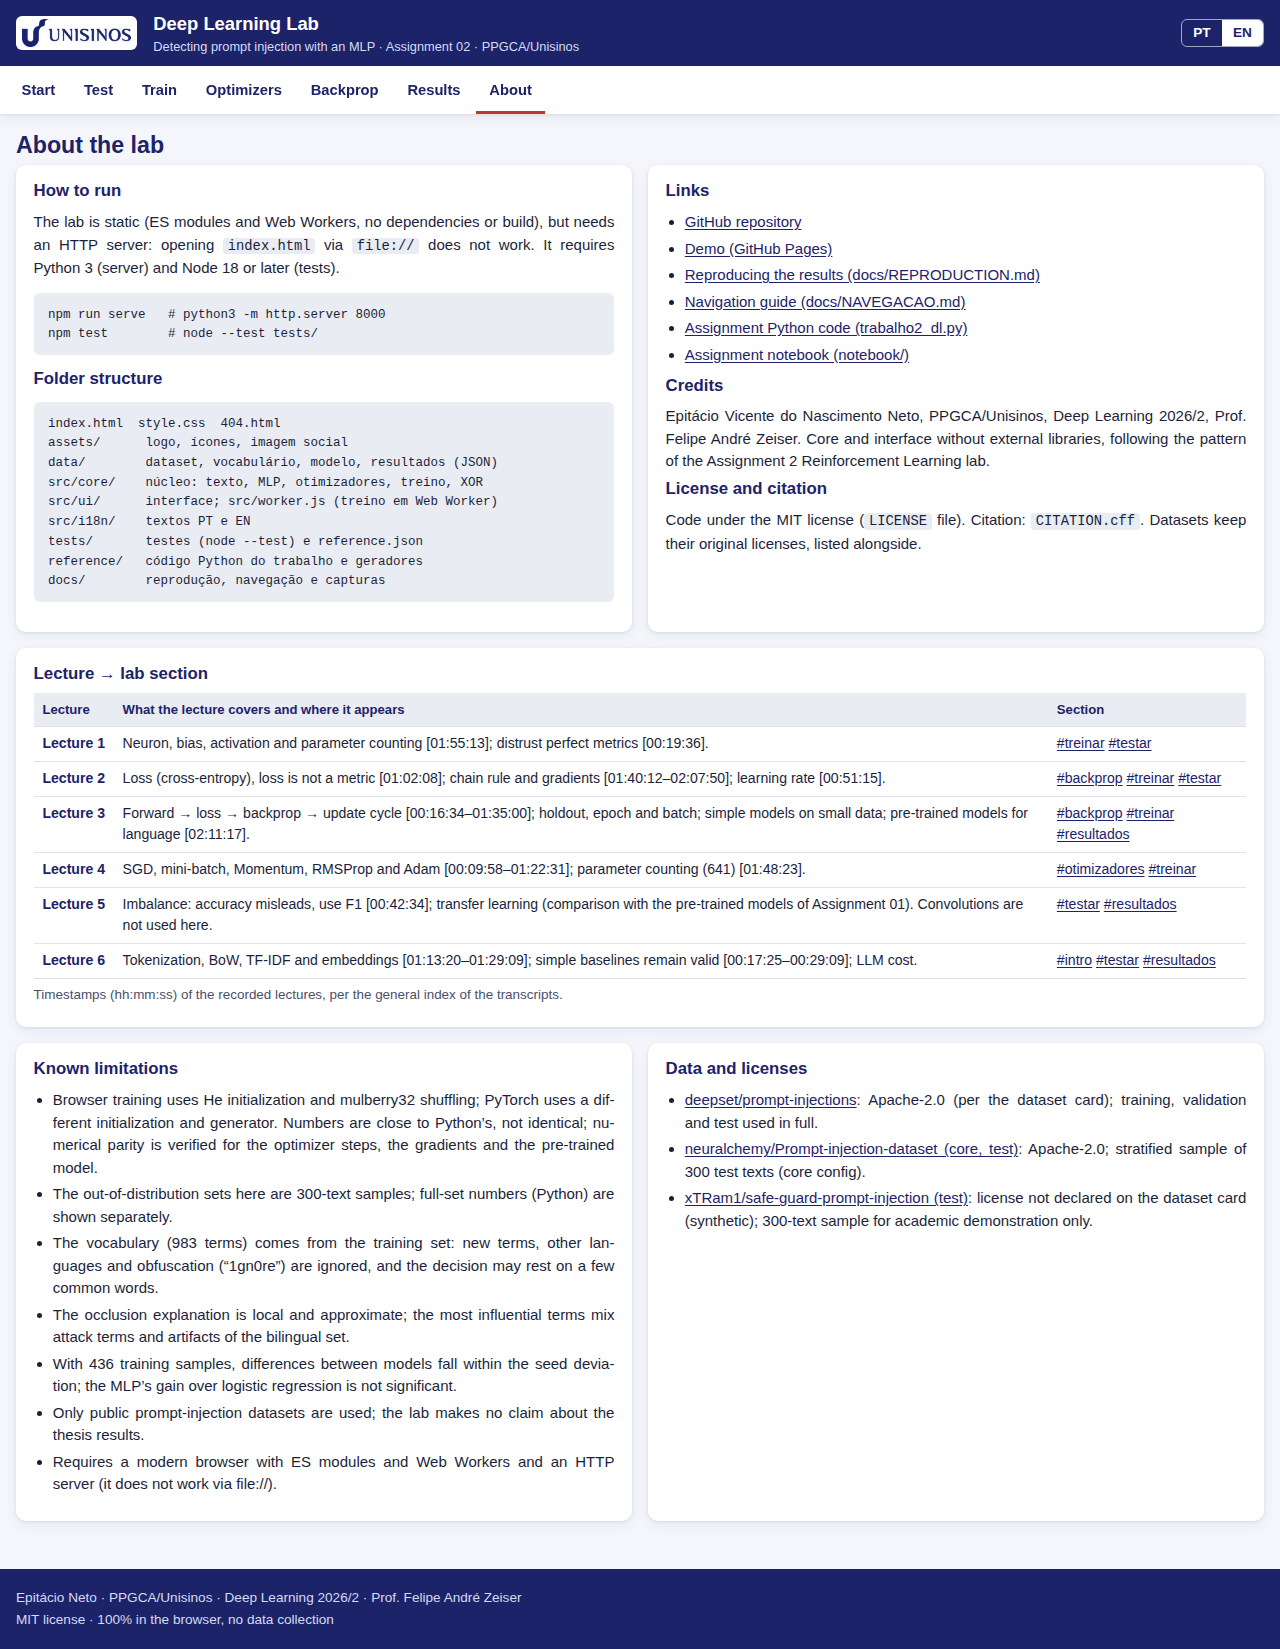
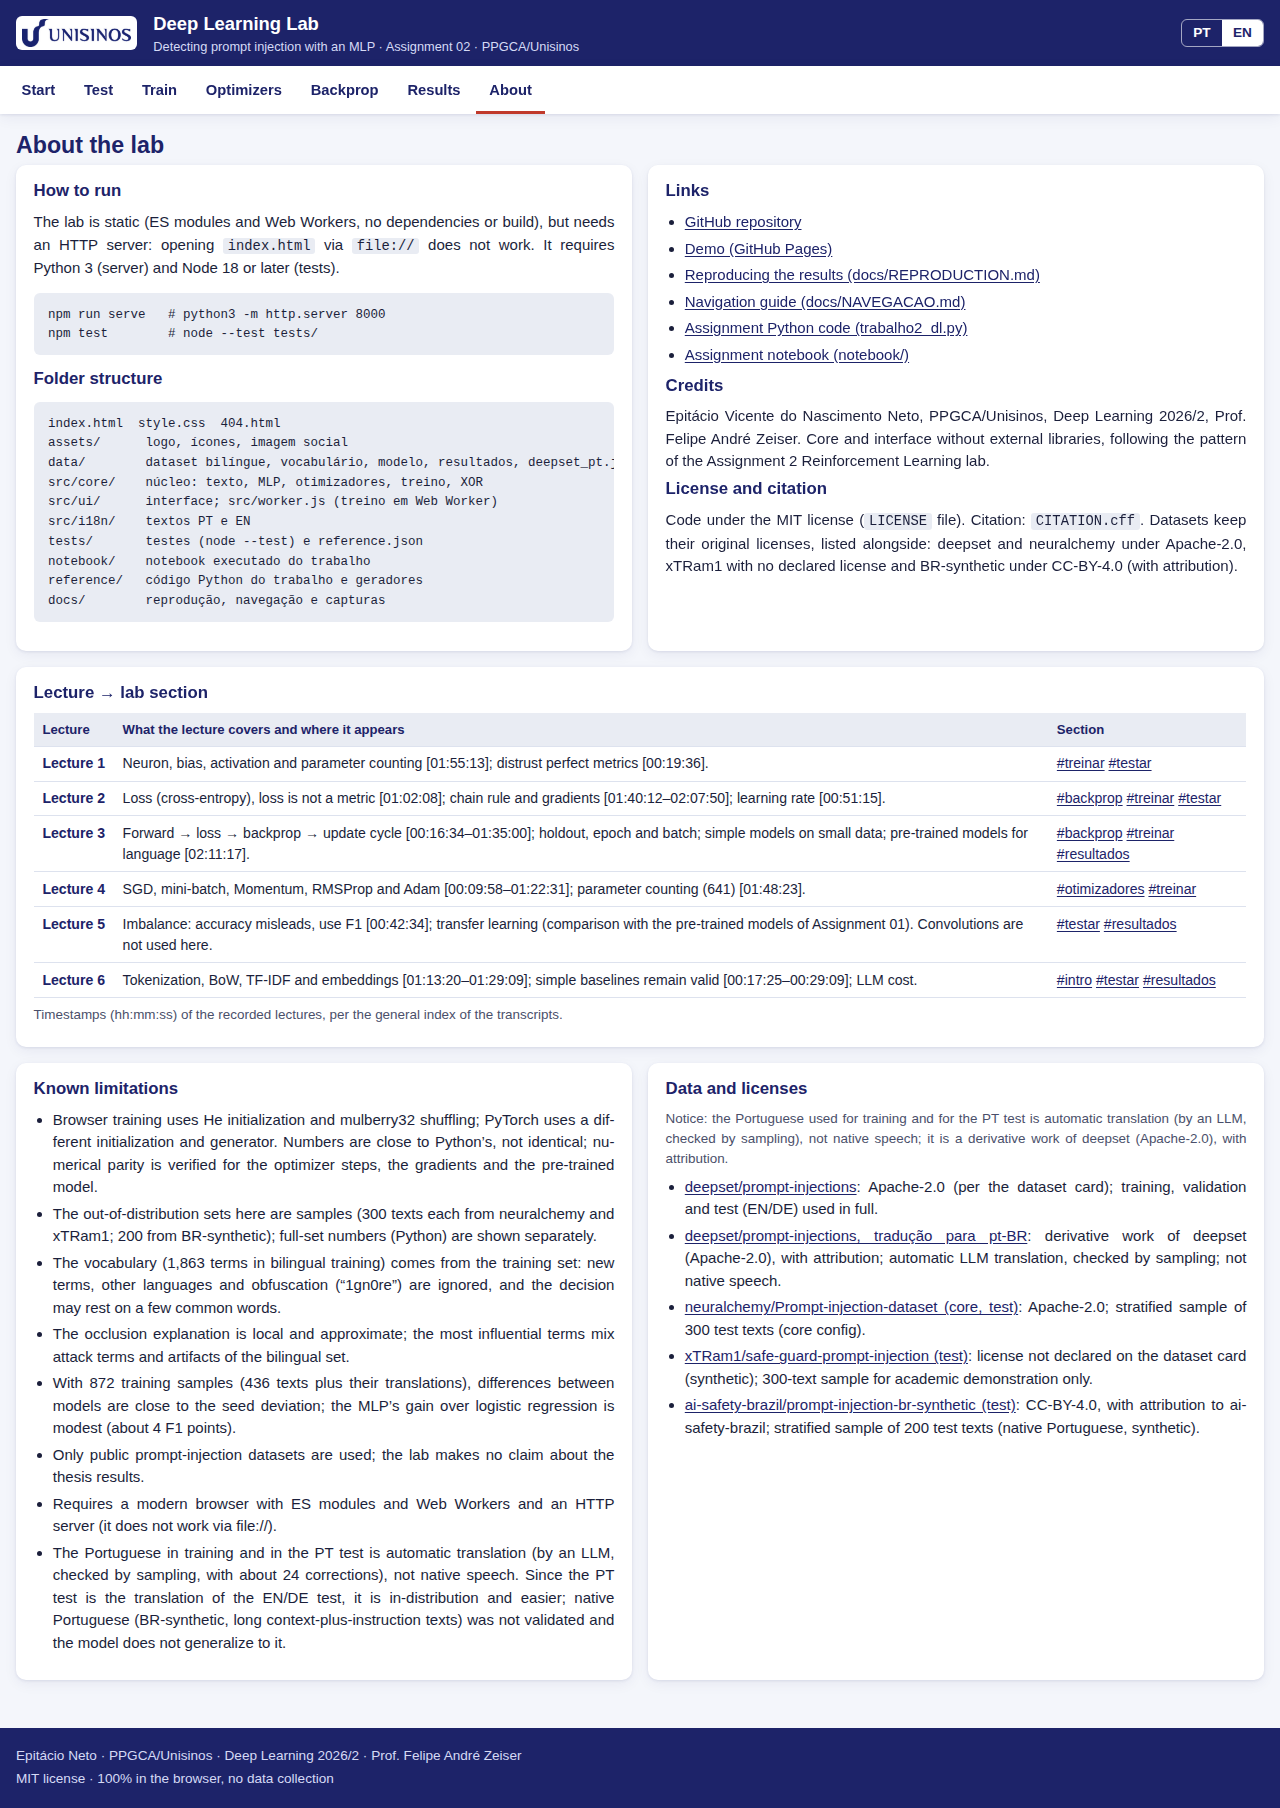
Interface bilíngue: seletor de línguas, métricas por língua, matriz língua×teste, opção Adam lr 0,01 e capturas de tela

Changed region(s): [[0.0, 0.0, 1.0, 0.9897], [0.5, 0.0928, 0.9688, 0.3402]]

diff --git a/src/ui/sobre.js b/src/ui/sobre.js
@@ -13,9 +13,9 @@ export function iniciarSobre(S) {
       .map(([h, k]) => `<li><a href="${h}" target="_blank" rel="noopener">${esc(t(k))}</a></li>`).join('');
     $('#sobre-aulas').innerHTML = `<thead><tr><th>${t('sobre.t_aula')}</th><th>${t('sobre.t_conteudo')}</th><th>${t('sobre.t_secao')}</th></tr></thead><tbody>${AULAS.map(([n, secs]) =>
       `<tr><th scope="row">${t('sobre.aula')} ${n}</th><td>${t('sobre.a' + n)}</td><td>${secs.split(' ').map((s) => `<a href="${s}">${s}</a>`).join(' ')}</td></tr>`).join('')}</tbody>`;
-    $('#sobre-limites').innerHTML = [1, 2, 3, 4, 5, 6, 7].map((i) => `<li>${t('sobre.lim' + i)}</li>`).join('');
+    $('#sobre-limites').innerHTML = [1, 2, 3, 4, 5, 6, 7, 8].map((i) => `<li>${t('sobre.lim' + i)}</li>`).join('');
     const f = S.ds.fontes;
-    $('#sobre-dados').innerHTML = ['deepset', 'neuralchemy', 'xtram1'].map((k) => `<li><a href="${f[k].url}" target="_blank" rel="noopener">${esc(f[k].nome)}</a>: ${esc(t('sobre.lic_' + k))}</li>`).join('');
+    $('#sobre-dados').innerHTML = ['deepset', 'deepset_pt', 'neuralchemy', 'xtram1', 'br'].map((k) => `<li><a href="${f[k].url}" target="_blank" rel="noopener">${esc(f[k].nome)}</a>: ${esc(t('sobre.lic_' + k))}</li>`).join('');
   }
   onLang(render);
   render();

diff --git a/style.css b/style.css
@@ -216,3 +216,6 @@ fieldset { border: 0; margin: 0; padding: 0; }
 .chip-check input { width: auto; margin: 0; accent-color: var(--azul); }
 .chip-check:has(input:checked) { background: var(--claro); border-color: var(--azul); font-weight: 700; }
 .tab td.heat { text-align: center; font-weight: 700; font-variant-numeric: tabular-nums; }
+.campo label.chip-check, .chip-opt .chip-check { display: inline-flex; flex-direction: row; align-items: center; white-space: nowrap; width: auto; }
+.chip-check input[type="checkbox"] { width: 1rem; height: 1rem; min-width: 0; padding: 0; }
+.chip-opt { align-self: end; }
